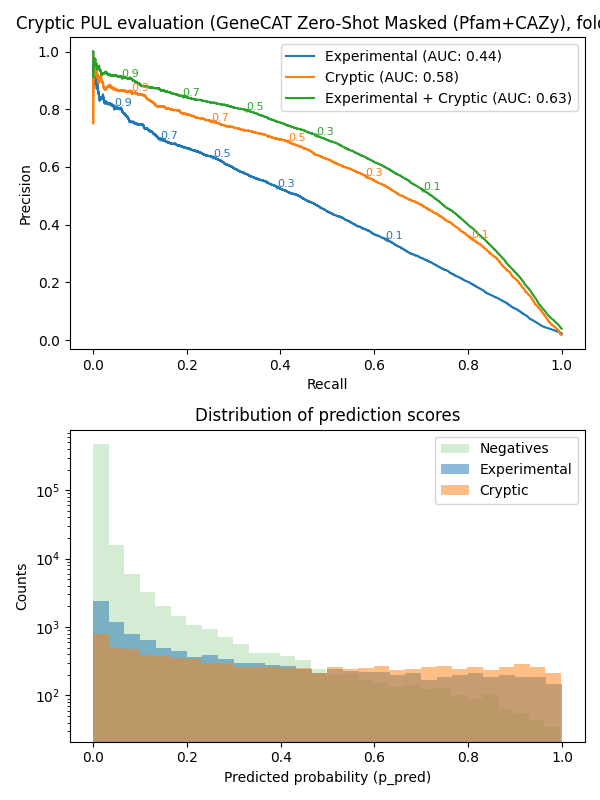
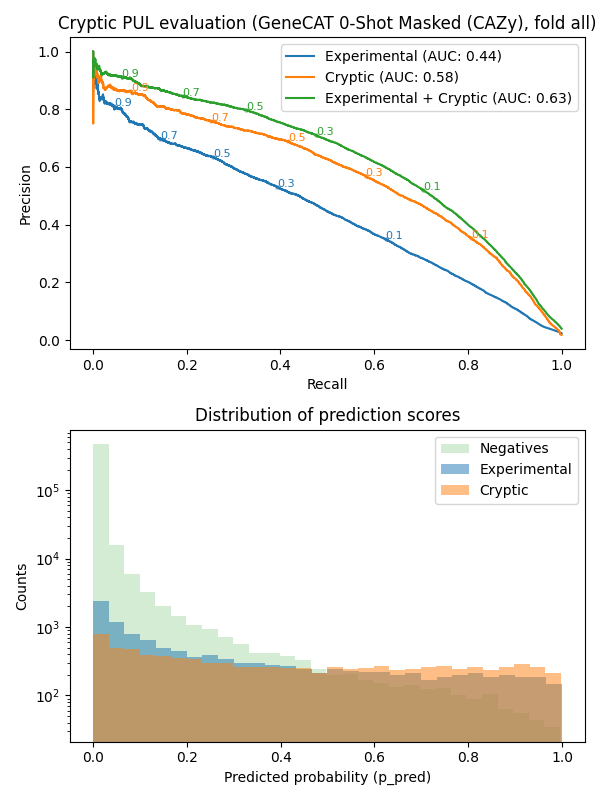
add feature comparison plot

Changed region(s): [[0.03, 0.0, 1.0, 0.0625]]

diff --git a/src/scripts/visualization/evaluate_predictions.py b/src/scripts/visualization/evaluate_predictions.py
@@ -9,7 +9,7 @@ from matplotlib_venn import venn3
 from tqdm import tqdm
 from visualization_utilities import PredictionEvaluator
 import altair_upset as au
-from viz_data import model_names, model_names_masked, model_colors
+from viz_data import model_names, model_names_masked, model_colors, model_names_features
 
 def get_evaluators(all_models, k=7, aggregate=False):
     return [
@@ -51,6 +51,55 @@ def generate_upset_plot(all_models, model_class):
 #        title="Predicted and experimental PUL genes overlap"
     )
     chart.save(f"results/plots/aggregated/upset_plot_{model_class}.svg")
+
+
+def barplot_features(all_models, model_names_dict=model_names_features):
+    # list of evaluators for all models
+    evaluators = get_evaluators(all_models)
+    fig_bar, ax_bar = plt.subplots(1, 1, figsize=(6, 6))
+    ax_bar.set_xlabel("Model")
+    ax_bar.set_ylabel("AUPRC (Area Under Pecision-Recall Curve)")
+    ax_bar.set_title("AUPRC per model")
+    auprc_exp = []
+
+    for i, model_evaluator in enumerate(evaluators):
+        current_model_name = model_names_dict.get(all_models[i])
+        # aggregate all folds
+        model_evaluator.aggregate_all_folds()
+        # evaluate predictions on cryptic puls
+        auprc_e, auprc_cr, auprc_b = model_evaluator.test_cryptic_puls("all")
+        # save auprc scores
+        auprc_exp.append(auprc_e)
+
+    # plot bar plot of auprc scores
+    models = [model_names_dict.get(e.model_name) for e in evaluators]
+    colors = [model_colors.get(e.model_name) for e in evaluators]
+    n = len(models)
+    auprc = auprc_exp
+    # group size = 2 models per group
+    group_size = 2
+    gap = 0.8  # visual spacing between groups
+    x = []
+    group_centers = []
+    pos = 0
+    for i in range(0, n, group_size):
+        group = list(range(i, min(i + group_size, n)))
+        group_pos = [pos + j for j in range(len(group))]
+
+        x.extend(group_pos)
+        group_centers.append(np.mean(group_pos))
+
+        pos += len(group) + gap
+
+    x = np.array(x)
+    bars = ax_bar.bar(x, auprc, color=colors)
+    ax_bar.bar_label(bars, fmt="%.2f", padding=3, fontsize=8)
+    ax_bar.set_ylim(0, 0.8)
+    ax_bar.set_xticks(x)
+    ax_bar.set_xticklabels(models, rotation=45, ha="right")
+
+    fig_bar.tight_layout()
+    fig_bar.savefig("results/plots/aggregated/barplot_features.png")
 
 
 
@@ -206,7 +255,7 @@ def main(args):
 
     if model_name == "features":
         all_models = ["gecco_pfam", "gecco_cazy", "genecat_zeroshot_pfam_masked", "genecat_zeroshot_cazy_masked", "genecat_finetuned_pfam_masked", "genecat_finetuned_cazy_masked"]
-        compare_all_models(all_models, model_name)
+        barplot_features(all_models)
         return
 
     if model_name == "selected":

diff --git a/src/scripts/visualization/dataset_construction.py b/src/scripts/visualization/dataset_construction.py
@@ -66,7 +66,6 @@ def donut_chart(ax, counts, rank, title):
         wedgeprops=dict(width=0.35, edgecolor='w'),
         textprops={'fontsize': 9}
     )
-#    ax.set_title(title)
 
 def plot_taxonomy(ax, all_puls):
     phylum_counts = get_taxonomic_counts(all_puls, rank="phylum", cutoff=10)
@@ -86,9 +85,10 @@ def get_bins(labeled_table, bin_num):
     )
     labels = [f'{start}-{bins[0]}'] + [f'{bins[i]+1}-{bins[i + 1]}' if (bins[i]+1 != bins[i+1]) else f'{bins[i+1]}' for i in range(len(bins[:-1]))] + [f'≥{bins[-1]+1}']
     return bins, labels
- 
+
 def get_n_genes(genes, labeled_table):
-    labeled_table = join_gene_and_PUL_table(gene_table=genes, cluster_table=labeled_table)
+    print(labeled_table.with_columns((polars.col("end")-polars.col("start")).alias("PUL_length")).sort(by="PUL_length").select("cluster_id", "sequence_id", "species", "PUL_length"))
+    labeled_table = join_gene_and_PUL_table(gene_table=genes, cluster_table=labeled_table, buffer=0)
     labeled_table = labeled_table.group_by("cluster_id").agg(polars.col("is_PUL").sum().alias("n_genes")).sort("n_genes", descending=False).filter(polars.col("cluster_id").is_not_null())
     return labeled_table
 
@@ -144,7 +144,15 @@ def plot_venn_diagram_database(ax, experimental_puls):
     for t in v.set_labels + v.subset_labels:
         if t:
             t.set_fontsize(9)
-#    ax.set_title("PUL origin in dataset")
+
+def get_info_on_data(clusters_table, gene_table):
+    labeled_table = join_gene_and_PUL_table(gene_table=gene_table, cluster_table=clusters_table)
+
+    print("Number of contigs: ", clusters_table.select("sequence_id").n_unique())
+    print("Number of PULs: ", clusters_table.select("cluster_id").n_unique())
+    print("Number of genes: ", labeled_table.select("protein_id").n_unique())
+    print("Number of genes in PULs: ", labeled_table.filter("is_PUL").select("protein_id").n_unique())
+    print("Percentage: ", labeled_table.filter("is_PUL").select("protein_id").n_unique() / labeled_table.select("protein_id").n_unique() * 100)
 
 
 def main():
@@ -159,6 +167,8 @@ def main():
     )
     genes = polars.read_parquet("src/data/genecat_output/genome.genes.parquet")
     original_clusters = polars.read_csv("src/data/data_collection/combined_clusters.tsv", separator="\t", infer_schema_length=600)
+
+    get_info_on_data(all_puls, genes)
 
     fig = plt.figure(figsize=(10, 6))
     gs = fig.add_gridspec(

diff --git a/src/scripts/visualization/viz_data.py b/src/scripts/visualization/viz_data.py
@@ -4,15 +4,15 @@ from palettable.cartocolors.qualitative import Bold_10
 
 model_names = {
     "gecco_pfam": "GECCO (Pfam)",
-    "gecco_cazy": "GECCO (Pfam+CAZy)",
-    "genecat_zeroshot_pfam": "GeneCAT Zero-Shot (Pfam)",
-    "genecat_zeroshot_cazy": "GeneCAT Zero-Shot (Pfam+CAZy)",
-    "genecat_zeroshot_pfam_masked": "GeneCAT Zero-Shot Masked (Pfam)",
-    "genecat_zeroshot_cazy_masked": "GeneCAT Zero-Shot Masked (Pfam+CAZy)",
+    "gecco_cazy": "GECCO (CAZy)",
+    "genecat_zeroshot_pfam": "GeneCAT 0-Shot (Pfam)",
+    "genecat_zeroshot_cazy": "GeneCAT 0-Shot (CAZy)",
+    "genecat_zeroshot_pfam_masked": "GeneCAT 0-Shot Masked (Pfam)",
+    "genecat_zeroshot_cazy_masked": "GeneCAT 0-Shot Masked (CAZy)",
     "genecat_finetuned_pfam": "GeneCAT Finetuned (Pfam)",
-    "genecat_finetuned_cazy": "GeneCAT Finetuned (Pfam+CAZy)",
+    "genecat_finetuned_cazy": "GeneCAT Finetuned (CAZy)",
     "genecat_finetuned_pfam_masked": "GeneCAT Finetuned Masked (Pfam)",
-    "genecat_finetuned_cazy_masked": "GeneCAT Finetuned Masked (Pfam+CAZy)",
+    "genecat_finetuned_cazy_masked": "GeneCAT Finetuned Masked (CAZy)",
     "esmc": "ESM-C",
     "bacformer": "Bacformer",
     "esmc_masked": "ESM-C Masked",
@@ -22,8 +22,8 @@ model_names = {
 
 model_names_masked = {
     "gecco_pfam": "GECCO",
-    "genecat_zeroshot_cazy": "GeneCAT Zero-Shot",
-    "genecat_zeroshot_cazy_masked": "GeneCAT Zero-Shot Masked",
+    "genecat_zeroshot_cazy": "GeneCAT 0-Shot",
+    "genecat_zeroshot_cazy_masked": "GeneCAT 0-Shot Masked",
     "genecat_finetuned_cazy": "GeneCAT Finetuned",
     "genecat_finetuned_cazy_masked": "GeneCAT Finetuned Masked",
     "esmc": "ESM-C",
@@ -32,6 +32,16 @@ model_names_masked = {
     "bacformer_masked": "Bacformer Masked",
     "genecat_untrained": "GeneCAT Untrained"
 }
+
+model_names_features = {
+    "gecco_pfam": "GECCO (Pfam)",
+    "gecco_cazy": "GECCO (CAZy)",
+    "genecat_zeroshot_pfam_masked": "GeneCAT 0-Shot (Pfam)",
+    "genecat_zeroshot_cazy_masked": "GeneCAT 0-Shot (CAZy)",
+    "genecat_finetuned_cazy_masked": "GeneCAT Finetuned (CAZy)",
+    "genecat_finetuned_pfam_masked": "GeneCAT Finetuned (Pfam)",
+}
+
 
 Buda_4 = Buda_4.mpl_colors
 Cork_7 = Cork_7.mpl_colors
